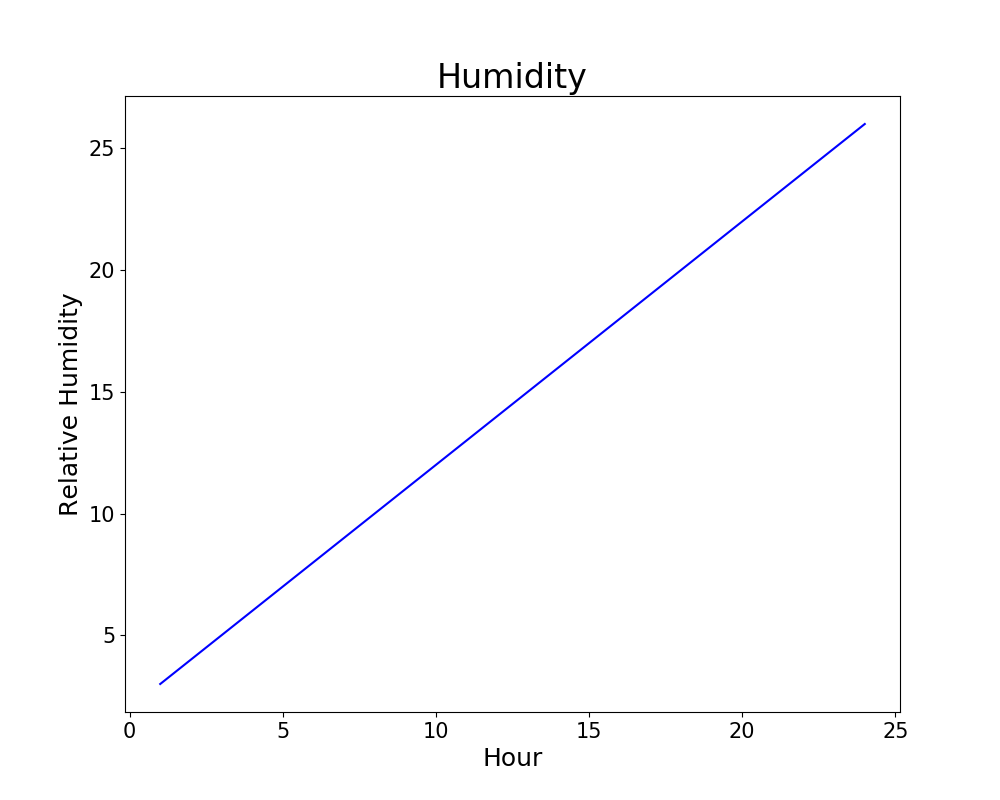
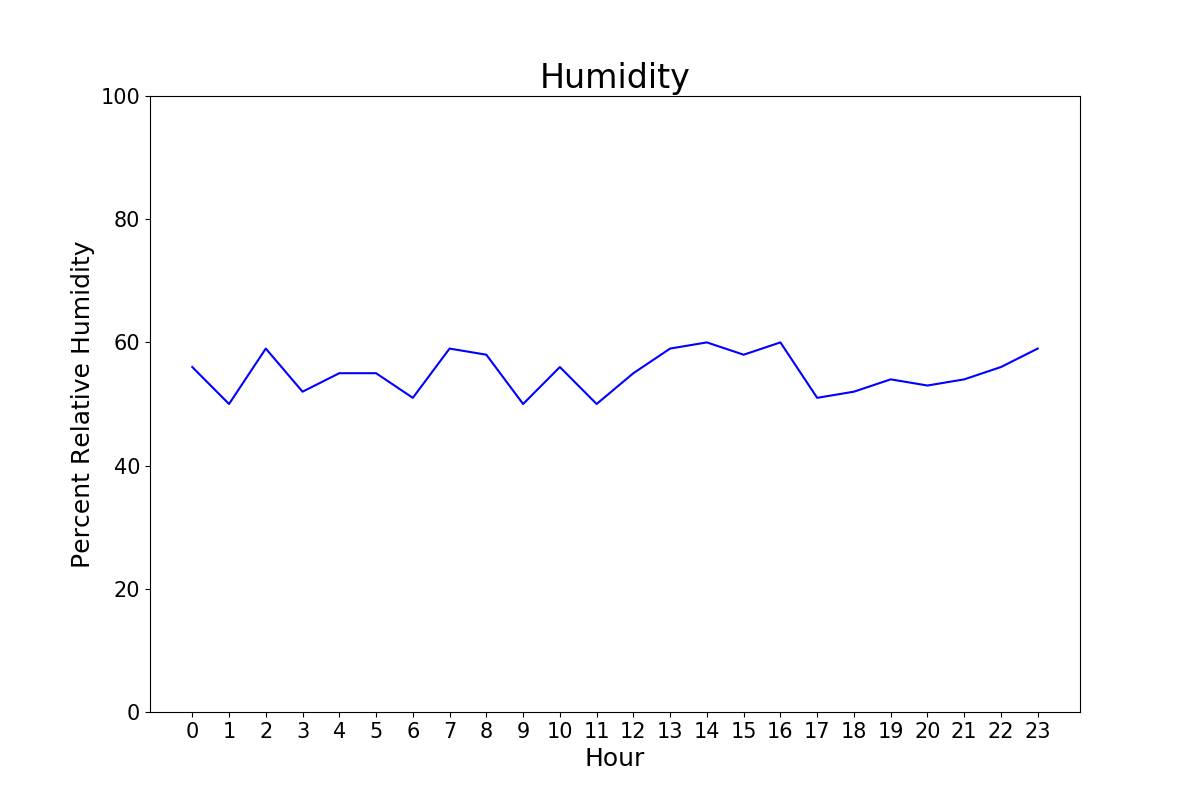
Changed temp hum data, made plots prettier, made html prettier

diff --git a/frontend/html/display_results.template.html b/frontend/html/display_results.template.html
@@ -7,8 +7,8 @@
 	<body>
 		<h1><center>{{source_label}}</center></h1>
 
-		<img src="{{temperature.png}}" alt="Temperature.png" style="width:600px;height:500px;">
-		<img src="{{humidity.png}}" alt="Humidity.png" style="width:600px;height:500px;">
+		<center><img src="{{temperature.png}}" alt="Temperature.png" style="width:750px;height:500px;"></center>
+		<center><img src="{{humidity.png}}" alt="Humidity.png" style="width:750px;height:500px;"></center>
 	</body>
 
 </html>

diff --git a/frontend/html/add_sources.template.html b/frontend/html/add_sources.template.html
@@ -4,13 +4,13 @@
 
 		</head>
 		<body>
-			<h2>Enter a new source name</h2>
-
-			<form action="add_sources" method="GET">
+			<center><h1>Enter a new source name</h1></center>
+			<br>
+			<center><form action="add_sources" method="GET">
 			  Source Name:<br>
 			  <input type="text" name="source_name">
 			  <br><br>
 			  <input type="submit" value="Submit">
-			</form> 
+			</form></center>
 		</body>
 	</html>

diff --git a/frontend/html/source_added.template.html b/frontend/html/source_added.template.html
@@ -4,8 +4,9 @@
 
 		</head>
 		<body>
-			<h2>Your source has been added!</h2>
-			<button class="button add_Source" onclick = "location.href='{{url}}'">Go back to sources</button>
+			<center><h1>Your source has been added!</h1></center>
+			<br>
+			<center><button class="button add_Source" onclick = "location.href='{{url}}'">Go back to sources</button></center>
 
 		</body>
 	</html>

diff --git a/frontend/html/list_sources.template.html b/frontend/html/list_sources.template.html
@@ -27,7 +27,7 @@
 
 		<br>
 		<br>
-		<button class="button add_Source" onclick = "location.href='{{add_sources_url}}'">Add Source</button>
+		<center><button class="button add_Source" onclick = "location.href='{{add_sources_url}}'" style="height:50px;width:130px">Add Source</button></center>
 
 		</body>
 	</html>

diff --git a/database/database.py b/database/database.py
@@ -1,4 +1,5 @@
 import sqlite3
+import random
 import matplotlib.pyplot as plt
 
 def query(DOC_ROOT, userid, source, time_start, time_end):
@@ -36,21 +37,25 @@ def get_label(DOC_ROOT, userid, source):
 
 def save_graph(DOC_ROOT, time, temp, humidity, userid, source):
     # plot temp
-    plt.figure(figsize=(10,8))
+    plt.figure(figsize=(12,8))
     plt.plot(time, temp, color='red')
     plt.title('Temperature', fontsize=24)
     plt.xlabel('Hour', fontsize=18)
     plt.ylabel('Fahrenheit', fontsize=18)
+    plt.xticks(range(24))
     plt.tick_params(labelsize=15)
+    plt.ylim(0,100)
     plt.savefig(DOC_ROOT + '/tmp_files/'+userid+'_'+str(source)+'_temp.png')
 
     # plot humidity
-    plt.figure(figsize=(10,8))
+    plt.figure(figsize=(12,8))
     plt.plot(time, humidity, color='blue')
     plt.title('Humidity', fontsize=24)
     plt.xlabel('Hour', fontsize=18)
-    plt.ylabel('Relative Humidity', fontsize=18)
+    plt.ylabel('Percent Relative Humidity', fontsize=18)
+    plt.xticks(range(24))
     plt.tick_params(labelsize=15)
+    plt.ylim(0,100)
     plt.savefig(DOC_ROOT + '/tmp_files/'+userid+'_'+str(source)+'_hum.png')
 
 def add_source(DOC_ROOT, userid, label):
@@ -65,8 +70,14 @@ def add_source(DOC_ROOT, userid, label):
 
     # Insert source for userid into table by loggin temp and humidity for 24 hours
     command = ''' INSERT into temprh(userid,source,label,time,temp,humidity) VALUES(?,?,?,?,?,?); '''
-    for i in range(1,25):
-       cur.execute(command, (userid, new_source, label, i, i+1, i+2))
+
+    random.seed(new_source)
+    temp_mid = random.randint(5,96)
+    hum_mid = random.randint(5,96)
+    for i in range(24):
+        temp_i = random.randint(temp_mid-5, temp_mid+5)
+        hum_i = random.randint(hum_mid-5, hum_mid+5)
+        cur.execute(command, (userid, new_source, label, i, temp_i, hum_i))
 
     connection.commit()
 

diff --git a/server_code/display_results/display_results.py b/server_code/display_results/display_results.py
@@ -4,10 +4,10 @@ from database import database as db
 
 def display_results(DOC_ROOT, userid, source):
 	# query last 24 hours and save graphs
-	queryResults = db.query(DOC_ROOT, userid, source, 1, 24)
+	queryResults = db.query(DOC_ROOT, userid, source, 0, 23)
 	temp = [i[0] for i in queryResults]
 	hum = [i[1] for i in queryResults]
-	db.save_graph(DOC_ROOT, range(1,25), temp, hum, userid, source)
+	db.save_graph(DOC_ROOT, range(24), temp, hum, userid, source)
 
 	with open(DOC_ROOT+"/frontend/html/display_results.template.html",'r') as descriptor:
 		template = descriptor.read()
